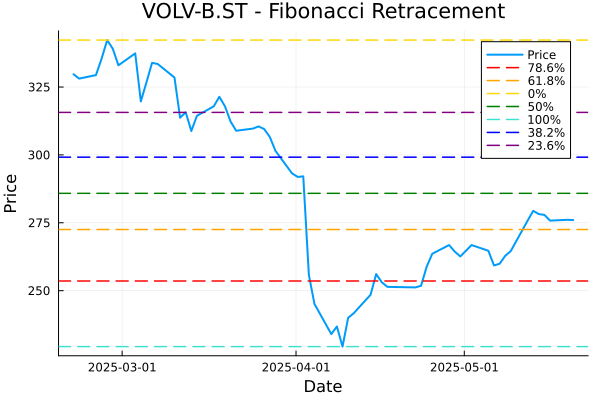
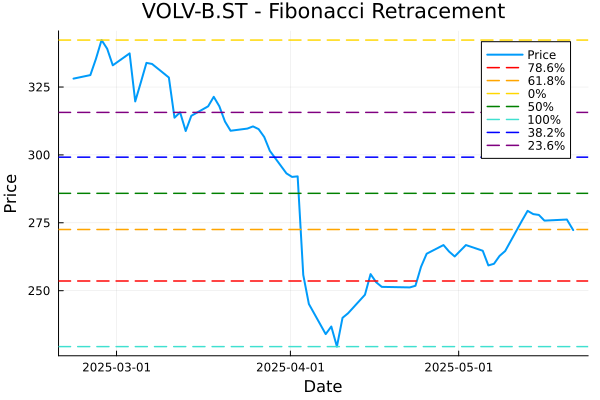
20250521120319 updated VOLV-B.ST analysis in submodule

diff --git a/index.html b/index.html
@@ -122,7 +122,7 @@
 </head>
 <body>
     <h1>Stock Analysis Report: VOLV-B.ST</h1>
-    <p>Report generated on 2025-05-20 12:02:14</p>
+    <p>Report generated on 2025-05-21 12:03:13</p>
     
     <div class="container">
         <h2>Current Strategy: <span class="buy">BULLISH</span></h2>
@@ -130,15 +130,15 @@
         <div class="metrics">
             <div class="metric-card">
                 <div class="metric-title">Current Price</div>
-                <div class="metric-value">276.0</div>
+                <div class="metric-value">272.3</div>
             </div>
             <div class="metric-card">
                 <div class="metric-title">RSI(14)</div>
-                <div class="metric-value">55.65</div>
+                <div class="metric-value">51.3</div>
             </div>
             <div class="metric-card">
                 <div class="metric-title">MACD</div>
-                <div class="metric-value">1.0385</div>
+                <div class="metric-value">0.957</div>
             </div>
             <div class="metric-card">
                 <div class="metric-title">P/E Ratio</div>
@@ -148,14 +148,14 @@
         
         <div class="summary">Stock Analysis Summary for VOLV-B.ST
 Period: 3mo
-Date Range: 2025-02-20T08:00:00 to 2025-05-20T10:01:13
+Date Range: 2025-02-21T08:00:00 to 2025-05-21T10:02:58
 
-Latest Price: 276.0
-RSI(14): 55.65
-MACD: 1.0385, Signal: -1.8396
+Latest Price: 272.3
+RSI(14): 51.3
+MACD: 0.957, Signal: -1.3166
 
 Recent Signals (Last 30 days):
-Buy Signals: 8
+Buy Signals: 7
 Sell Signals: 4
 
 Strategy: BULLISH
@@ -169,7 +169,7 @@ Strategy: BULLISH
             </tr>
             <tr>
                 <td>Buy Signals</td>
-                <td>8</td>
+                <td>7</td>
             </tr>
             <tr>
                 <td>Sell Signals</td>
@@ -293,12 +293,12 @@ Strategy: BULLISH
         
         <h3>Sell Signals</h3>
         <div class="sell">
-            2025-05-20T10:01:13<br>2025-05-14T07:00:00<br>2025-05-13T07:00:00<br>2025-05-12T07:00:00
+            2025-05-21T10:02:58<br>2025-05-14T07:00:00<br>2025-05-13T07:00:00<br>2025-05-12T07:00:00
         </div>
     </div>
     
     <div class="footer">
-        <p>Generated with Jaewoo's Financial Analysis Tools | 2025-05-20</p>
+        <p>Generated with Jaewoo's Financial Analysis Tools | 2025-05-21</p>
     </div>
 </body>
 </html>
